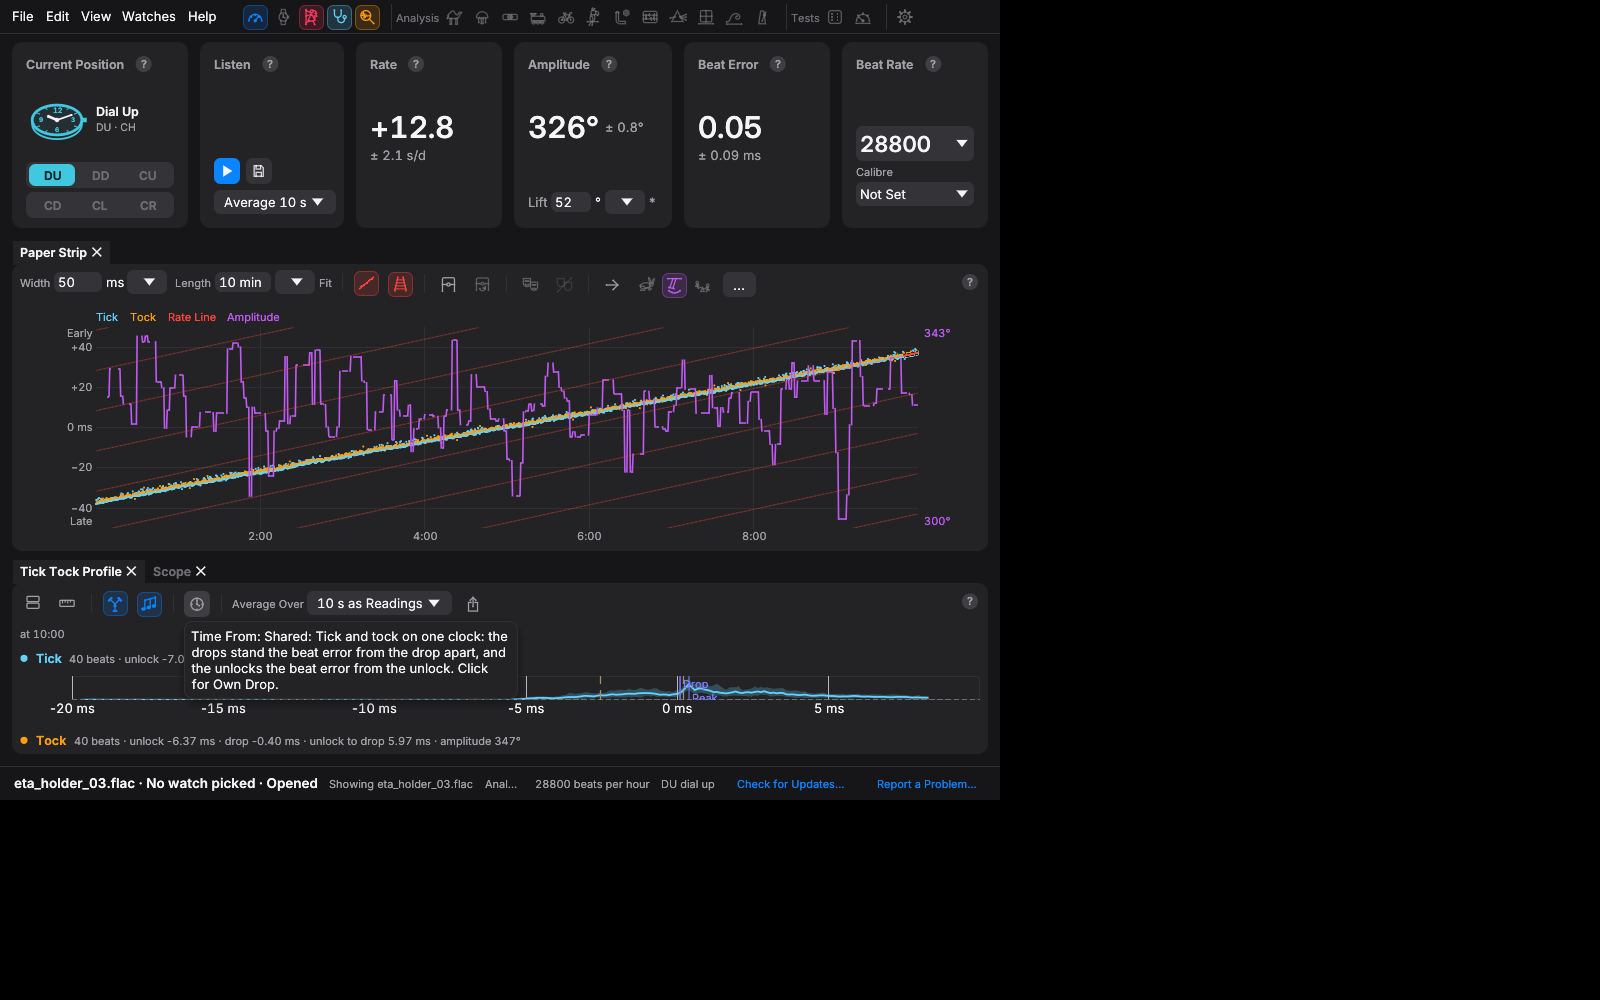
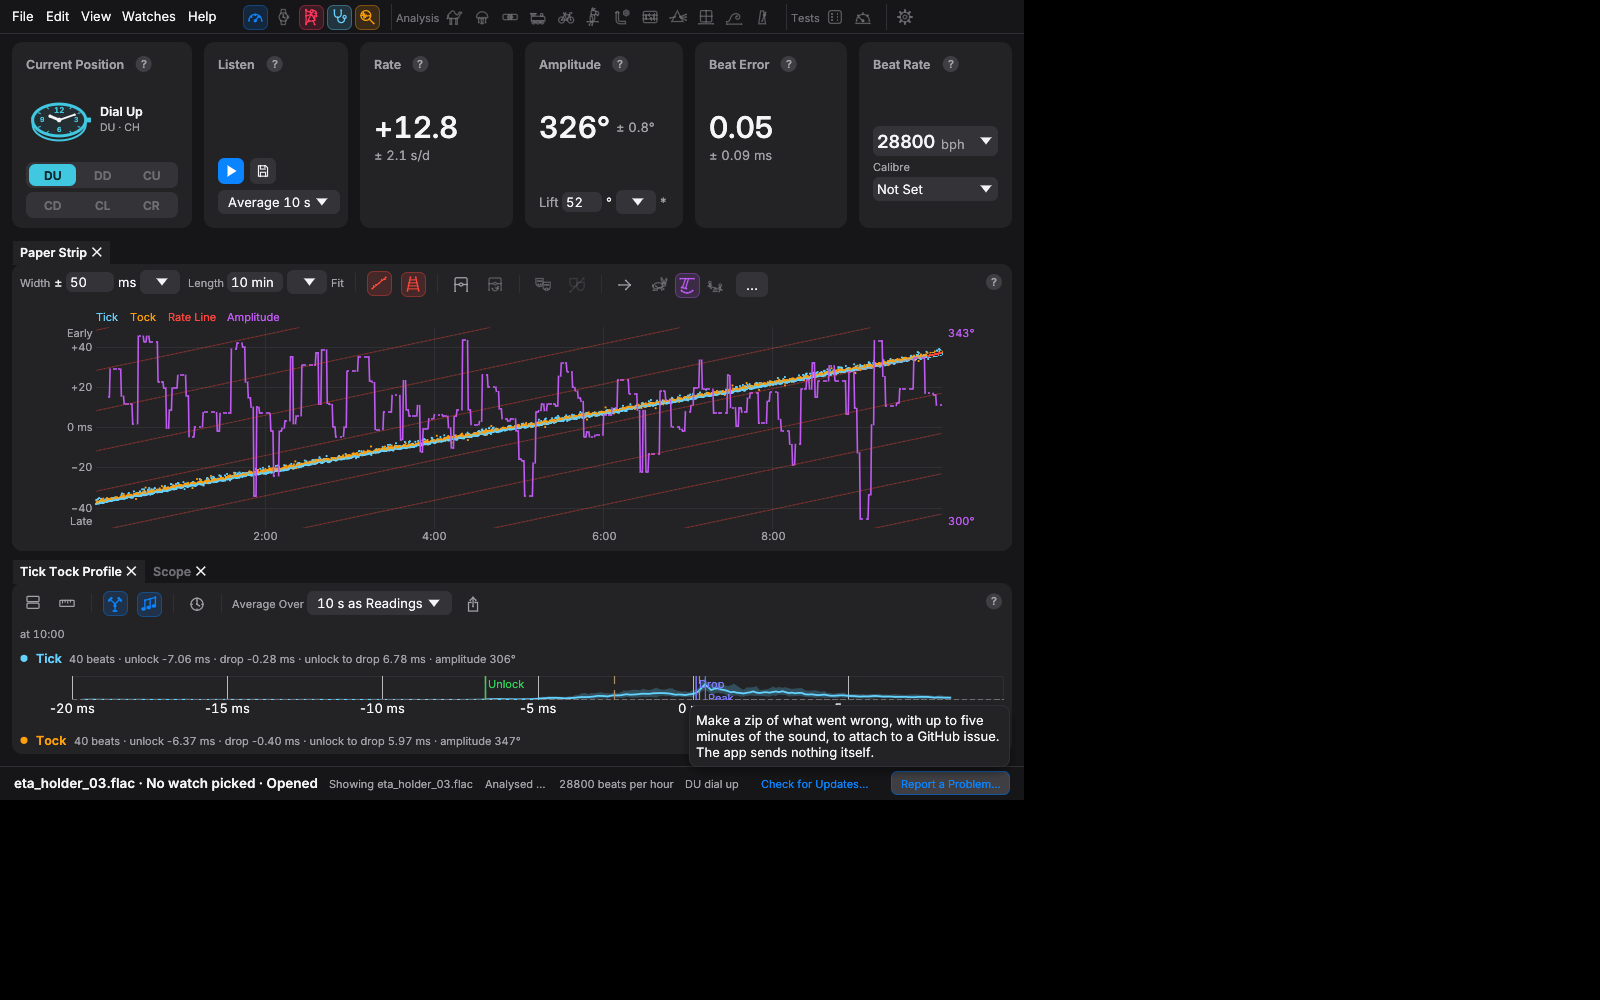
Desktop app: Width reads "Width ± 50 ms"; Settings > Microphone shot at 800 with a long input name
Claude-Session: https://claude.ai/code/session_01GsSg6RBnTb5YLpmgbJGamZ

diff --git a/crates/timegrapher-app/src/app.rs b/crates/timegrapher-app/src/app.rs
@@ -7229,6 +7229,7 @@ impl TimegrapherApp {
             "Milliseconds either side of the centre line. Shift or Ctrl and the mouse wheel \
              on the strip change it too.",
             |ui| {
+                ui.label("±");
                 let mut w = self.strip.half_width_ms;
                 let a = fields::entry(
                     ui,
@@ -7445,7 +7446,7 @@ impl TimegrapherApp {
                 }
             }
         });
-        theme::bar_gap(ui);
+        // Average Over's name in words sets it apart: no line before it.
         self.pane_average_setting(ui, Pane::Strip);
         self.export_button(ui, Pane::Strip);
     }
